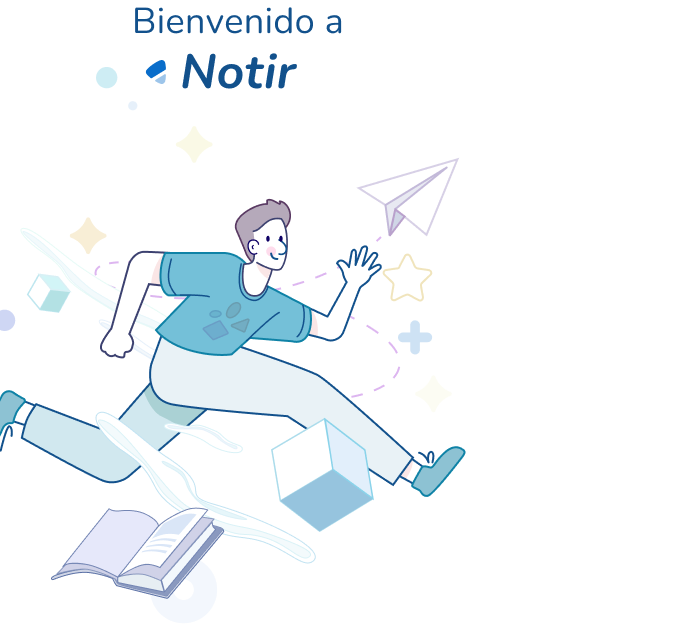
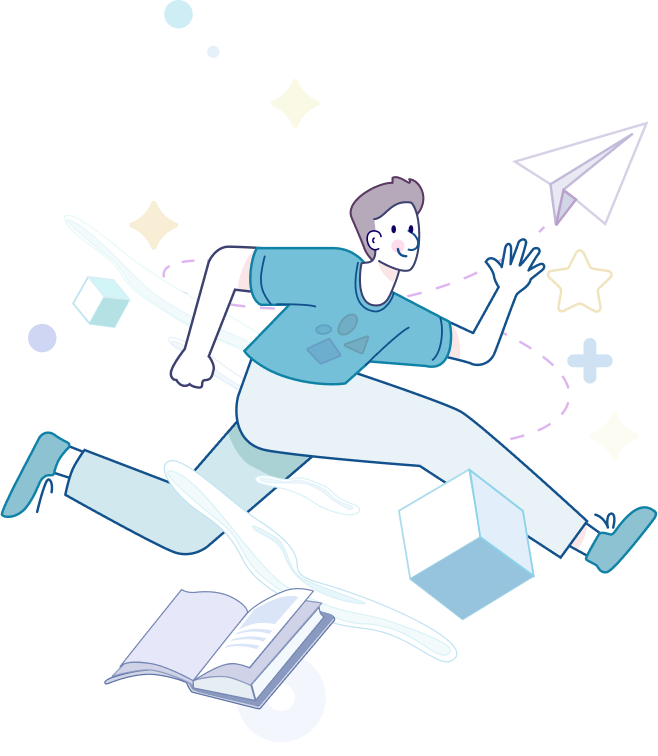
Change the image of Notir in the login page and add it in the register page

diff --git a/src/pages/register/index.js b/src/pages/register/index.js
@@ -1,54 +1,17 @@
+import NoirImage from "@/components/NotirImage/NotirImage";
 import RegisterForm from "@/components/RegisterForm/RegisterForm";
+import { Container } from "@mui/material";
 import React from "react";
 
 const index = () => {
   return (
     <div>
-      <RegisterForm />
+      <Container>
+        <NoirImage />
+        <RegisterForm />
+      </Container>
     </div>
   );
 };
 
 export default index;
-
-/*import React from "react";
-import { makeStyles } from "@material-ui/core/styles";
-import { TextField } from "@material-ui/core";
-import SecurityIcon from "@material-ui/icons/Security";
-
-/*const useStyles = makeStyles({
-  inputField: {
-    fontSize: "16px",
-    padding: "10px 10px 10px 38px",
-    background: "#F7F7F7",
-    border: "none",
-    outline: "none",
-    backgroundPositionX: "10px",
-    backgroundPositionY: "center",
-    backgroundRepeat: "no-repeat",
-    backgroundSize: "18px",
-  },
-  icon: {
-    position: "absolute",
-    left: "10px",
-    top: "50%",
-    transform: "translateY(-50%)",
-  },
-});*/
-
-/*export default function EmailInput() {
-  const classes = useStyles();
-
-  return (
-    <TextField
-      placeholder="Email"
-      variant="outlined"
-      InputProps={{
-        className: classes.inputField,
-        startAdornment: (
-          <SecurityIcon className={classes.icon} fontSize="small" />
-        ),
-      }}
-    />
-  );
-}*/

diff --git a/src/pages/login/index.js b/src/pages/login/index.js
@@ -1,5 +1,5 @@
 import LoginForm from "@/components/LoginForm/LoginForm";
-import NoirImage from "@/components/NoirImage/NoirImage";
+import NotirImage from "@/components/NotirImage/NotirImage";
 import { Container } from "@mui/system";
 import Image from "next/image";
 import React from "react";
@@ -16,7 +16,7 @@ const index = () => {
           width={500}
           height={500}
         />
-        <NoirImage />
+        <NotirImage />
         <LoginForm />
         <Image
           className={styles.star2}
